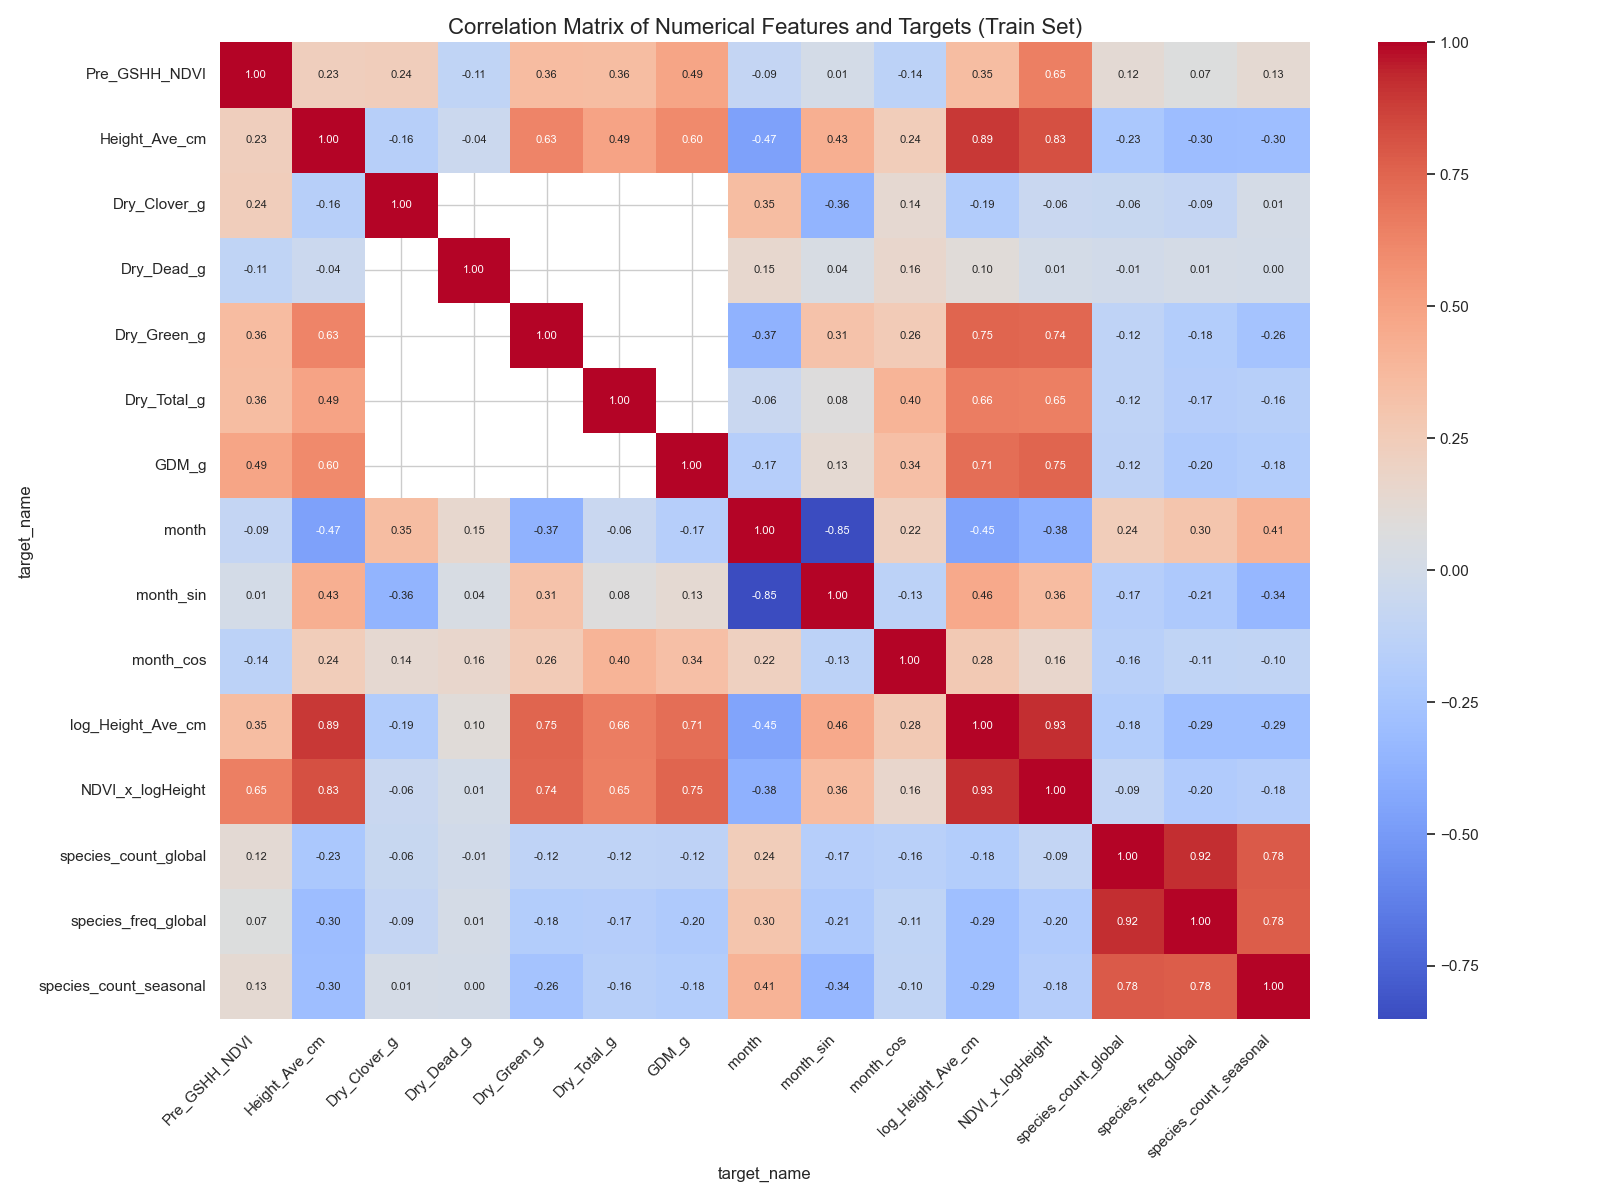
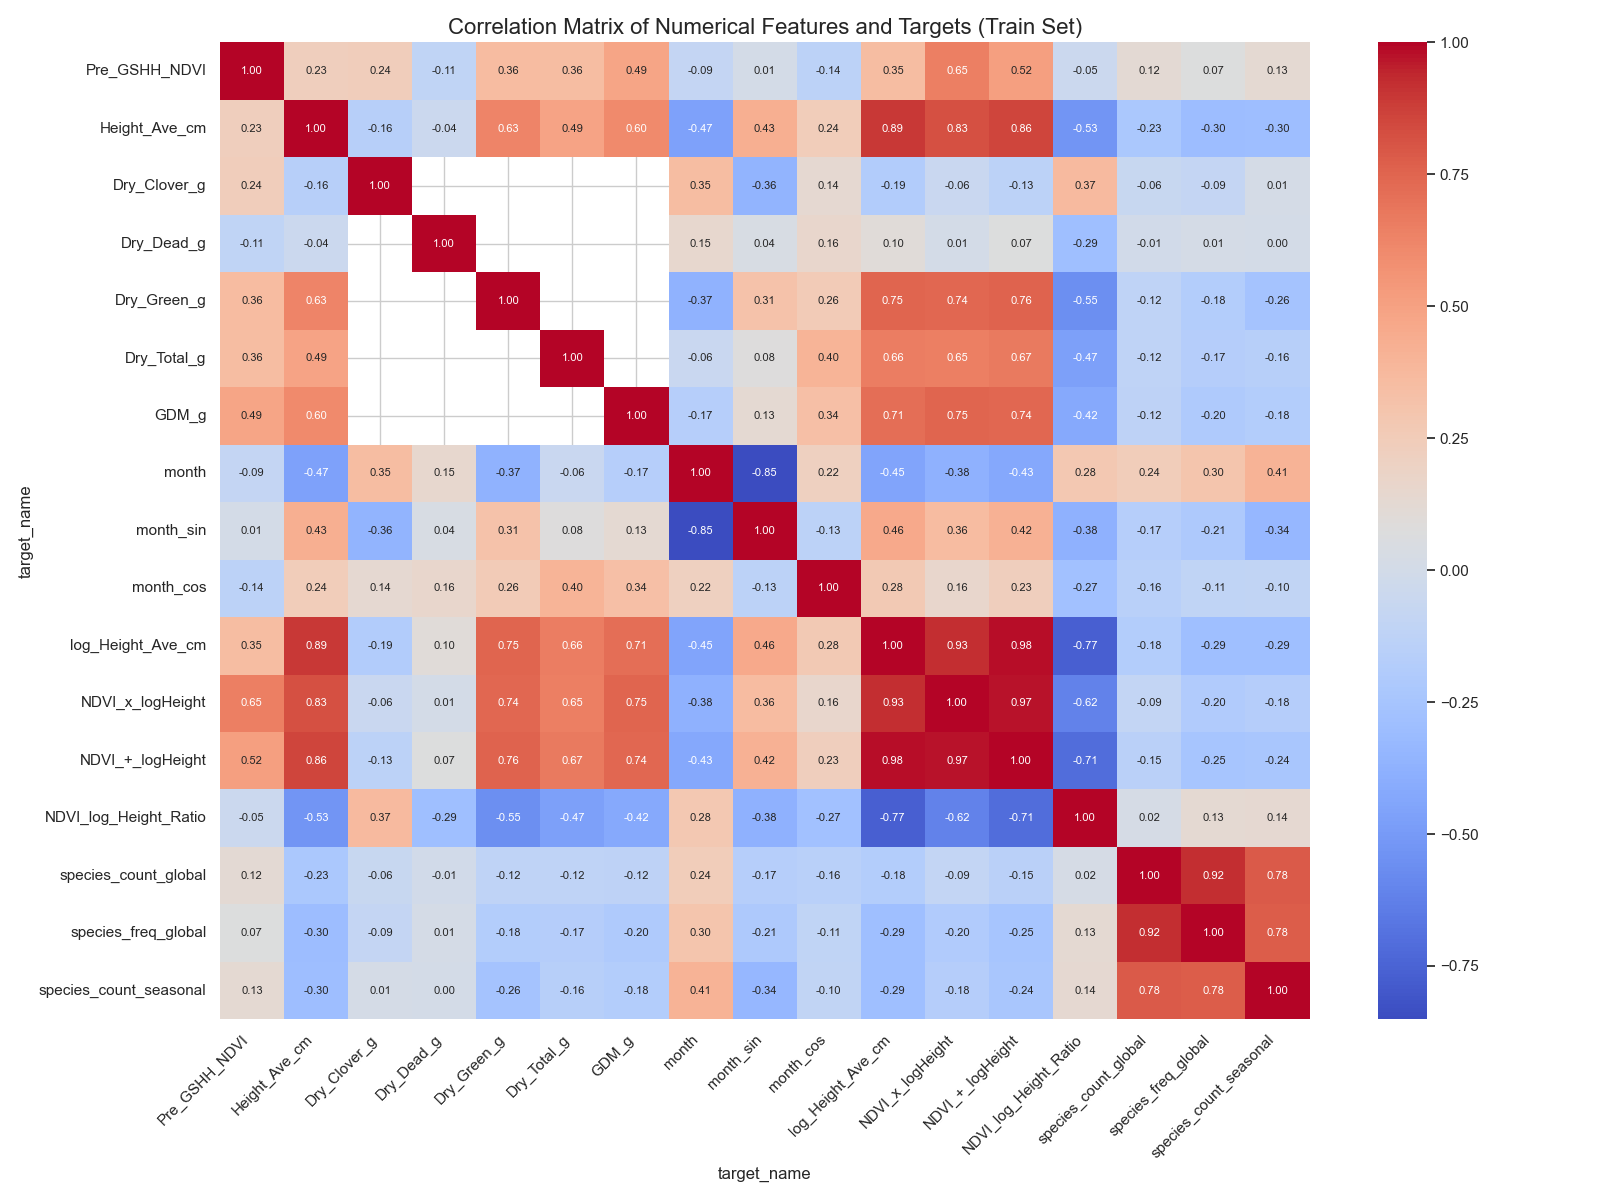
feat: add comprehensive EDA script to generate various visualizations including correlation matrices and numerical vs. target pairplots.

diff --git a/src/eda.py b/src/eda.py
@@ -57,6 +57,9 @@ def engineer_features(df: pd.DataFrame) -> pd.DataFrame:
     
     print("Engineering interaction features...")
     wide_df['NDVI_x_logHeight'] = wide_df['Pre_GSHH_NDVI'] * wide_df['log_Height_Ave_cm']
+    wide_df['NDVI_+_logHeight'] = wide_df['Pre_GSHH_NDVI'] + wide_df['log_Height_Ave_cm']
+    ratio = wide_df['Pre_GSHH_NDVI'] / (wide_df['Height_Ave_cm'] + 1e-5) 
+    wide_df['NDVI_log_Height_Ratio'] = ratio
 
     print("Engineering count and frequency features...")
     # Global Species Features
